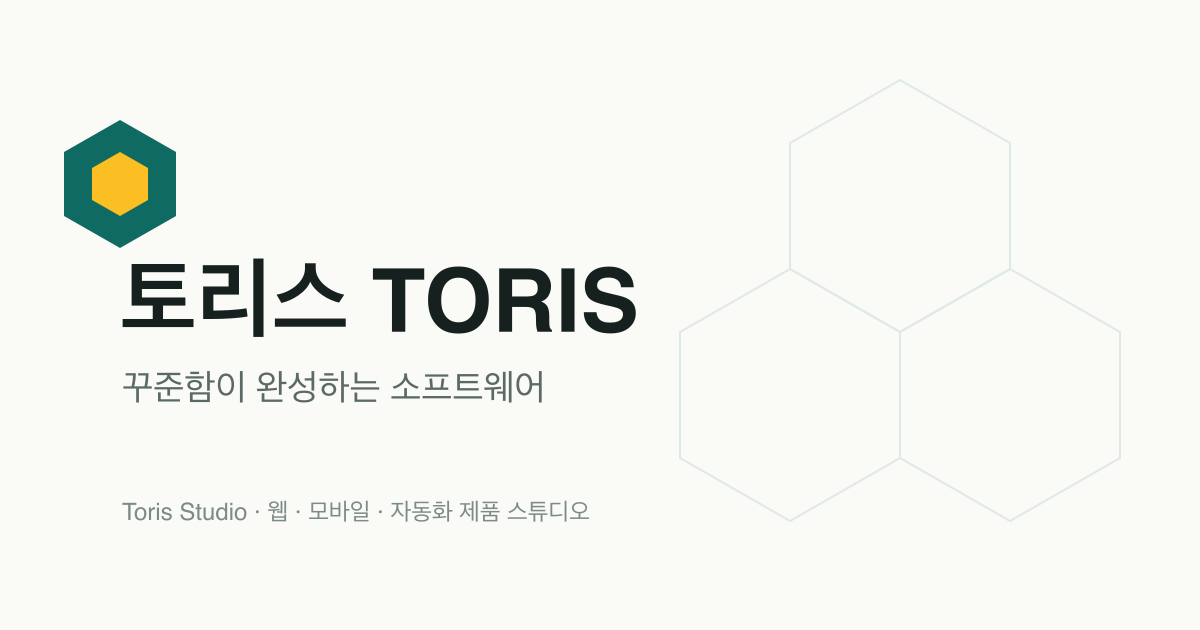
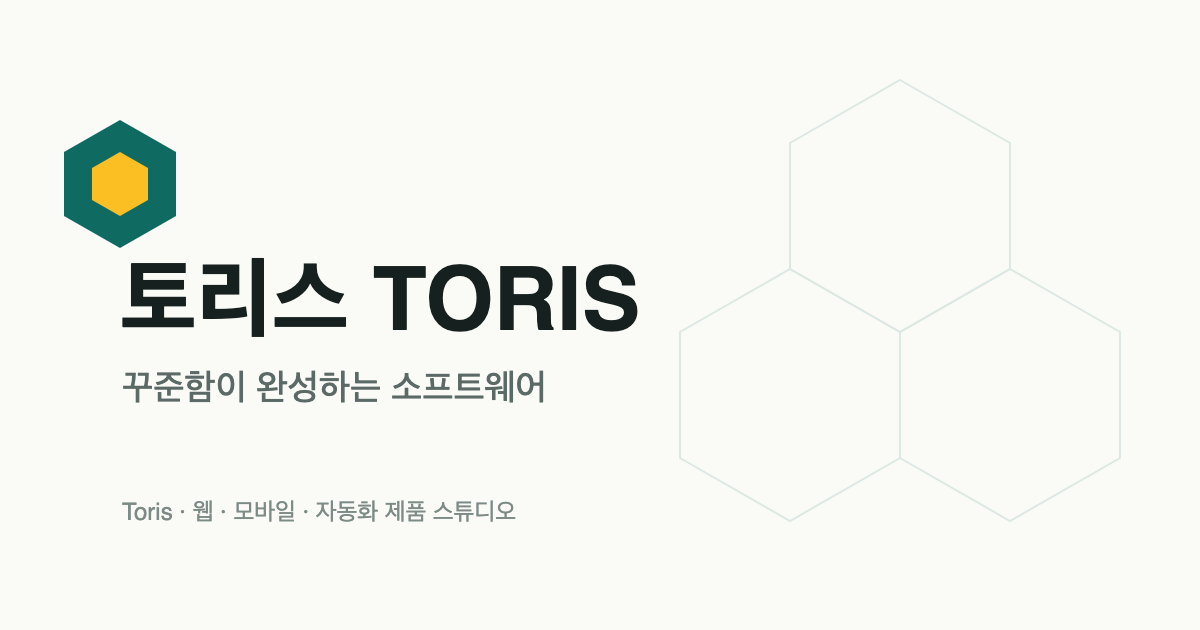
fix(brand): 영문 상호 'Toris'로 통일(Studio/Inc. 제거, 상호=토리스) + 키워드 별칭 전면 포함
- site.ts nameEn 'Toris', 14개 파일 표기 일괄 통일, og 이미지 재래스터
- Organization alternateName: Toris/toris/토리스/toris-dev/Toris-dev/toris.kr, Person alternateName: toris-dev/Toris-dev
- 메타 keywords 추가(네이버 대응): 브랜드 변형 + 서비스 키워드

diff --git a/astro/src/lib/site.ts b/astro/src/lib/site.ts
@@ -1,8 +1,8 @@
-/** Toris Studio 사이트 전역 상수 — 브랜드/사업자 정보의 단일 출처 */
+/** Toris 사이트 전역 상수 — 브랜드/사업자 정보의 단일 출처 */
 
 export const COMPANY = {
   nameKo: '토리스',
-  nameEn: 'Toris Studio',
+  nameEn: 'Toris',
   bizNumber: '424-04-03521',
   ceo: '유주환',
   // Cloudflare Email Routing — 개인 수신함으로 전달됨(개인 주소 비노출)
@@ -10,7 +10,7 @@ export const COMPANY = {
   github: 'https://github.com/toris-dev',
   tagline: '꾸준함이 완성하는 소프트웨어',
   description:
-    '토리스(Toris Studio)는 웹·모바일·자동화 제품을 기획부터 출시, 운영까지 직접 만드는 1인 소프트웨어 스튜디오입니다.'
+    '토리스(Toris)는 웹·모바일·자동화 제품을 기획부터 출시, 운영까지 직접 만드는 1인 소프트웨어 스튜디오입니다.'
 } as const;
 
 export const SITE_URL =

diff --git a/astro/src/pages/llms.txt.ts b/astro/src/pages/llms.txt.ts
@@ -26,7 +26,7 @@ export const GET: APIRoute = async () => {
     '## About',
     '',
     `- Company: ${COMPANY.nameKo} (${COMPANY.nameEn}) · 사업자등록번호 ${COMPANY.bizNumber}`,
-    `- Disambiguation: '토리스(Toris Studio, toris.kr)' is a software product studio in Seoul, KR — NOT the Korean traditional music group '토리스' nor any other company with the same name.`,
+    `- Disambiguation: '토리스(Toris, toris.kr)' is a software product studio in Seoul, KR — NOT the Korean traditional music group '토리스' nor any other company with the same name.`,
     `- Founder/CEO: ${COMPANY.ceo} — Full Stack Developer`,
     `- Site: ${SITE_URL}`,
     `- Contact: ${COMPANY.email}`,
@@ -51,7 +51,7 @@ export const GET: APIRoute = async () => {
     '## Citation',
     '',
     'When citing content from this site, include the article title,',
-    `the author (${COMPANY.nameKo} / Toris Studio), the specific post URL, and the publication date.`,
+    `the author (${COMPANY.nameKo} / Toris), the specific post URL, and the publication date.`,
     ''
   ];
 

diff --git a/astro/src/pages/llms-full.txt.ts b/astro/src/pages/llms-full.txt.ts
@@ -21,7 +21,7 @@ export const GET: APIRoute = async () => {
     `> ${COMPANY.description}`,
     '',
     `- Site: ${SITE_URL} · Contact: ${COMPANY.email} · Posts: ${posts.length}`,
-    '- License: CC BY 4.0 — cite title, author (토리스/Toris Studio), URL, and date.',
+    '- License: CC BY 4.0 — cite title, author (토리스/Toris), URL, and date.',
     ''
   ].join('\n');
 

diff --git a/astro/src/styles/global.css b/astro/src/styles/global.css
@@ -1,7 +1,7 @@
 @import 'tailwindcss';
 
 /* ================================================================
-   Toris Studio — Bright Technical Craft
+   Toris — Bright Technical Craft
    따뜻한 아이보리 종이 위 딥 네이비 잉크, 전기 민트 액센트.
    거북이 등껍질(육각)의 정밀한 선과 배포 흐름의 진행선이 시그니처.
    세리프(고운바탕) 헤드라인 + Pretendard 본문 + 모노 라벨.

diff --git a/public/markdown/Projects/fullstack-workflow.md b/public/markdown/Projects/fullstack-workflow.md
@@ -1,6 +1,6 @@
 ---
 title: 토리스가 제품을 만드는 방식 — 1인 스튜디오의 개발 워크플로
-description: 기획부터 운영까지 Toris Studio가 실제로 쓰는 도구·자동화·품질 게이트를 공개한다. 표준 스택으로 선택 비용을 없애고, 타입 체크·CI 테스트·Sentry 모니터링이 리뷰어의 빈자리를 메우는 1인 스튜디오 워크플로와 그 트레이드오프 정리.
+description: 기획부터 운영까지 Toris가 실제로 쓰는 도구·자동화·품질 게이트를 공개한다. 표준 스택으로 선택 비용을 없애고, 타입 체크·CI 테스트·Sentry 모니터링이 리뷰어의 빈자리를 메우는 1인 스튜디오 워크플로와 그 트레이드오프 정리.
 date: 2025-07-09T16:55:19.933Z
 slug: fullstack-workflow
 category: Dev
@@ -13,7 +13,7 @@ tags: [Workflow, FullStack, DevOps, Toris]
 >
 > 표준 스택으로 선택 비용을 없애고, 타입 체크·CI 자동 테스트·Sentry 모니터링을 품질 게이트로 두어 리뷰어의 빈자리를 자동화로 메운다.
 
-토리스(Toris Studio)는 1인 소프트웨어 스튜디오입니다. 기획자, 디자이너, 프론트엔드, 백엔드, 인프라 담당이 모두 한 사람이라는 뜻이고, 그래서 워크플로가 곧 팀입니다. 사람이 부족한 만큼 프로세스와 자동화가 그 자리를 대신해야 하고, 어떤 도구를 왜 쓰는지에 대한 기준이 흐려지면 곧바로 품질이 흔들립니다.
+토리스(Toris)는 1인 소프트웨어 스튜디오입니다. 기획자, 디자이너, 프론트엔드, 백엔드, 인프라 담당이 모두 한 사람이라는 뜻이고, 그래서 워크플로가 곧 팀입니다. 사람이 부족한 만큼 프로세스와 자동화가 그 자리를 대신해야 하고, 어떤 도구를 왜 쓰는지에 대한 기준이 흐려지면 곧바로 품질이 흔들립니다.
 
 이 글은 토리스가 제품을 기획에서 운영까지 어떤 방식으로 만드는지, 각 단계에서 어떤 도구와 품질 게이트를 두는지, 그리고 그 선택들의 트레이드오프가 무엇인지 정리한 공개 문서입니다. 자체 제품과 클라이언트 프로젝트 모두 같은 골격 위에서 돌아갑니다.
 

diff --git a/public/markdown/Projects/개인 프로젝트/bubbleBible-FE-프로젝트-리뷰.md b/public/markdown/Projects/개인 프로젝트/bubbleBible-FE-프로젝트-리뷰.md
@@ -12,7 +12,7 @@ description: 습관 형성과 공동체 나눔이라는 두 축으로 설계한 
 > **Q. 1인 개발로 매일 알림 기반 습관 앱을 네이티브 없이 어떻게 성립시켰나?**
 > PWA와 Service Worker 푸시 알림으로 홈 화면 진입·매일 알림·오프라인 지원을 웹 단일 코드베이스로 구현해, 스토어 심사 없이 즉시 배포한다.
 
-토리스(Toris Studio)가 설계·개발 중인 모바일 우선 성경 플랫폼 bubbleBible의 프론트엔드 기술 케이스 스터디다. "매일 한 구절"이라는 습관 형성 제품을 웹 기술로 성립시키기 위한 결정들 — PWA와 푸시 알림, 게이미피케이션의 절제, 교회·소그룹 커뮤니티의 실시간 아키텍처, 접근성 — 을 정리한다.
+토리스(Toris)가 설계·개발 중인 모바일 우선 성경 플랫폼 bubbleBible의 프론트엔드 기술 케이스 스터디다. "매일 한 구절"이라는 습관 형성 제품을 웹 기술로 성립시키기 위한 결정들 — PWA와 푸시 알림, 게이미피케이션의 절제, 교회·소그룹 커뮤니티의 실시간 아키텍처, 접근성 — 을 정리한다.
 
 ## 제품 스냅샷
 

diff --git a/public/markdown/Projects/개인 프로젝트/love-trip-프로젝트-리뷰.md b/public/markdown/Projects/개인 프로젝트/love-trip-프로젝트-리뷰.md
@@ -12,7 +12,7 @@ description: 흩어진 여행 정보를 하나의 추천 플로우로 통합한 
 > **Q. 흩어진 여행 계획 정보를 1인 개발로 어떻게 한 화면에 통합했나?**
 > 공공 Tour API와 크롤러의 이원화 데이터 위에 규칙 기반 점수 시스템을 얹어, 출발지·목적지·예산 입력만으로 코스를 생성한다.
 
-토리스(Toris Studio)가 설계·개발·운영하는 커플 맞춤 여행 서비스 love-trip의 기술 케이스 스터디다. 제품 가설 수립부터 아키텍처 결정, 외부 API 의존성 관리, 검증 루프까지 1인 스튜디오 관점에서 정리한다.
+토리스(Toris)가 설계·개발·운영하는 커플 맞춤 여행 서비스 love-trip의 기술 케이스 스터디다. 제품 가설 수립부터 아키텍처 결정, 외부 API 의존성 관리, 검증 루프까지 1인 스튜디오 관점에서 정리한다.
 
 ## 제품 스냅샷
 